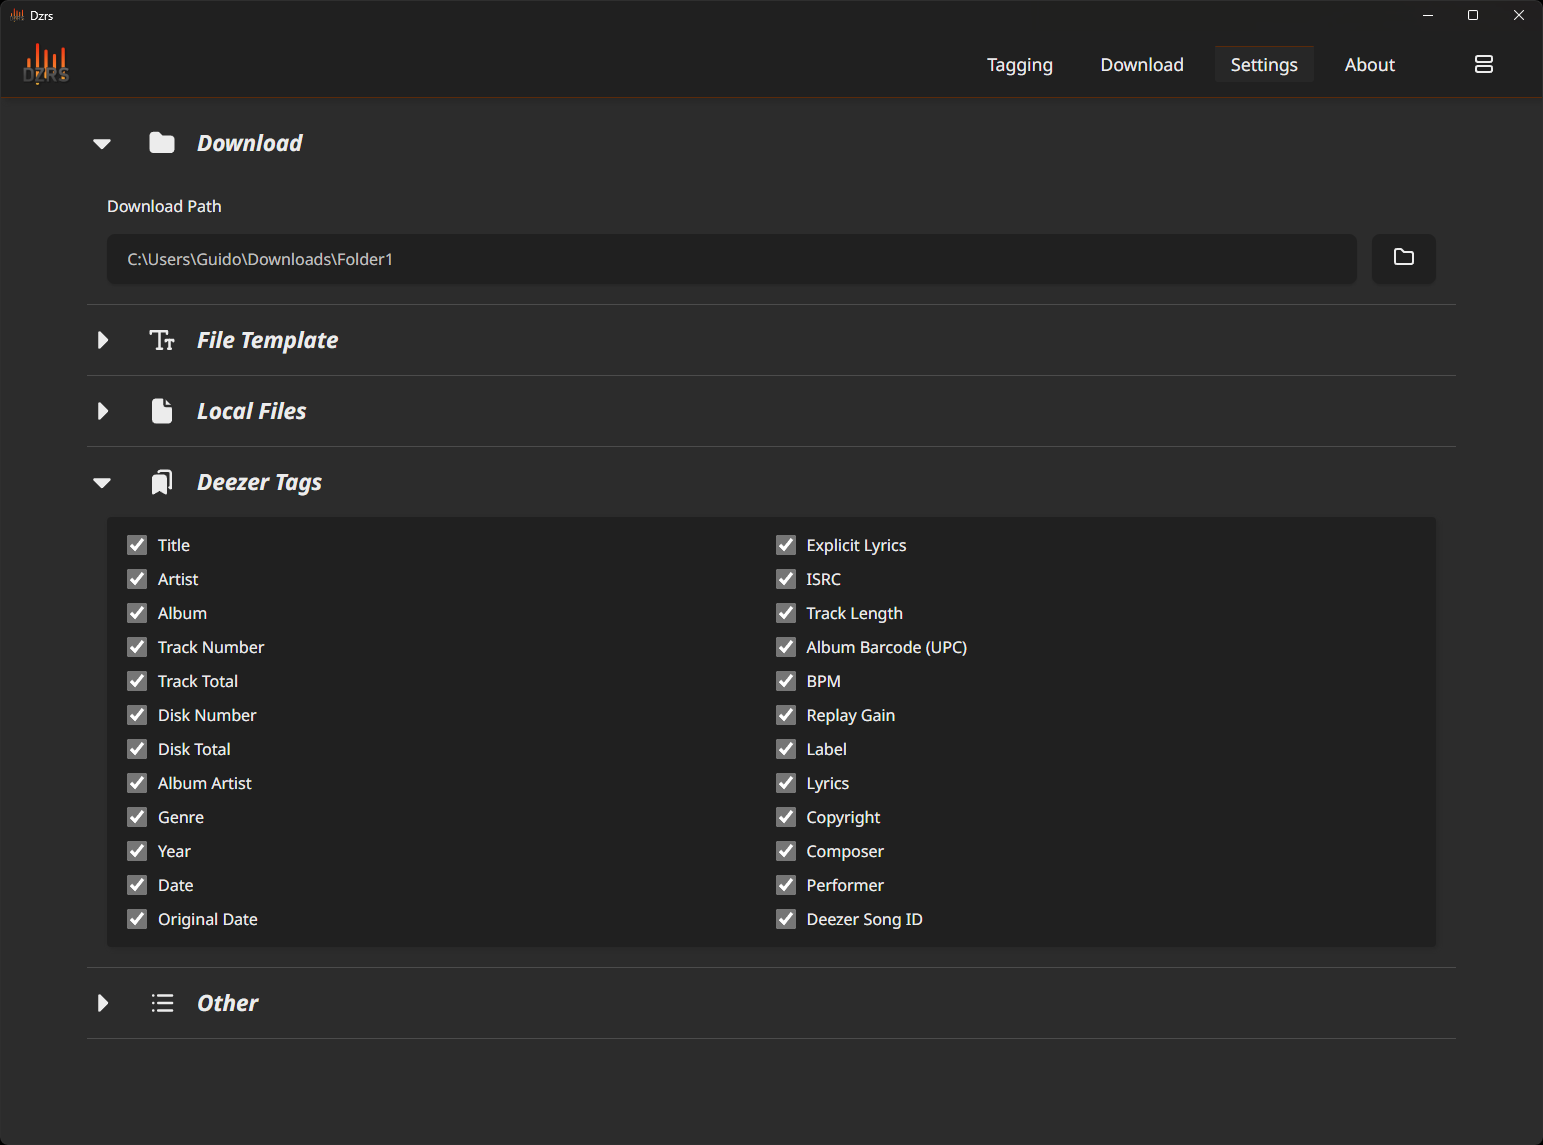
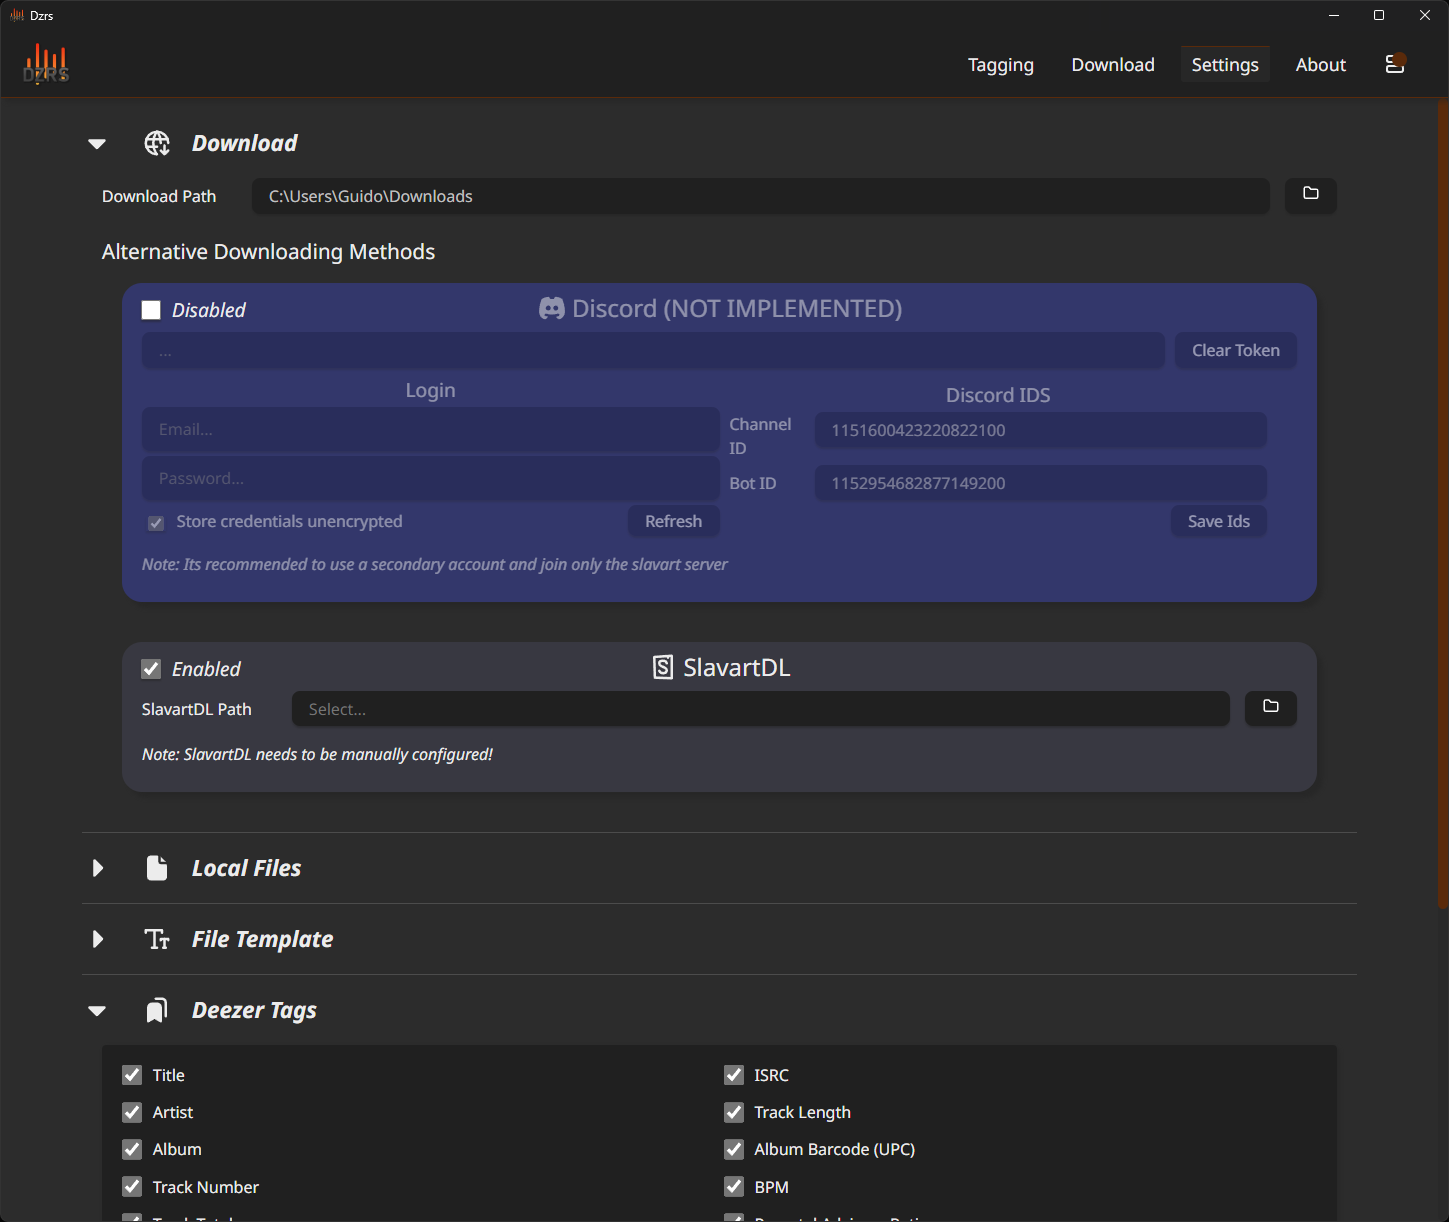
Added SlavartDL as download option

diff --git a/src/pages/Settings.vue b/src/pages/Settings.vue
@@ -147,7 +147,7 @@ function downloadSourceToggleStyle(e) {
             <div class="column" :class="{ 'disabled-el': !appConfig.discordEnabled }">
               <div class="row" style="font-size: 1.5em; margin-bottom: 4px">
                 <IconBrandDiscordFilled class="icon" size="30px" />
-                <p style="margin: auto 0px; padding-left: 5px">Discord</p>
+                <p style="margin: auto 0px; padding-left: 5px">Discord (NOT IMPLEMENTED)</p>
               </div>
               <div class="row" style="gap: 10px; margin-top: 5px">
                 <input type="text" style="flex-grow: 1" placeholder="..." :value="appConfig.discordToken" readonly />
@@ -193,7 +193,6 @@ function downloadSourceToggleStyle(e) {
                 </div>
               </div>
               <p style="font-style: italic">Note: Its recommended to use a secondary account and join only the slavart server</p>
-              <button @click="async () => await invoke('test_cmd')">TESTING BUTTON</button>
             </div>
           </div>
           <div class="slavartdl-div column">
@@ -219,12 +218,12 @@ function downloadSourceToggleStyle(e) {
               <div>
                 <div class="row" style="margin-top: 5px">
                   <p style="margin: auto 0px; flex-basis: 150px">SlavartDL Path</p>
-                  <input :value="appConfig.slavartdlPath" type="text" placeholder="Open..." style="flex-grow: 1" />
+                  <input :value="appConfig.slavartdlPath" type="text" placeholder="Select..." style="flex-grow: 1" />
                   <button style="margin-left: 15px" @click="setSlavartdlPath">
                     <IconFolder size="18px" class="icon clickable-effect" />
                   </button>
                 </div>
-                <p style="font-style: italic">Note: Configure SlavartDL manually before using it, make sure the output dir matches the download path in Dzrs</p>
+                <p style="font-style: italic">Note: SlavartDL needs to be manually configured!</p>
               </div>
             </div>
           </div>

diff --git a/src/App.vue b/src/App.vue
@@ -44,7 +44,7 @@ onMounted(async () => {
   // Finally when everything is initialized, show the main window
   await appWindow.show();
   // Notify the user if loading the config failed
-  if (!appConfig._loaded && !appConfig._created) {
+  if (!appConfig._loaded || !appConfig._created) {
     appWindow.emit("notification-add", { type: "Error", origin: "Config", msg: "Config file could not be loaded!" });
   }
   // Authenticate the discord client using the stored token

diff --git a/src-tauri/src/main.rs b/src-tauri/src/main.rs
@@ -69,6 +69,55 @@ pub fn browse<P: AsRef<Path>>(path: P) -> Result<(), String> {
     }
 }
 
+// Downloads a track from slavart api into a file
+async fn d_slavart_api(id: u64, filename: &str, directory: &str, overwrite: bool) -> Result<(), String> {
+    let url = format!("https://slavart-api.gamesdrive.net/api/download/track?id={id}");
+    let file_path = PathBuf::from(directory).join(format!("{}.flac", filename));
+    if file_path.exists() && !overwrite {
+        return Err(format!(
+            "File {:?} already exists",
+            file_path.file_name().unwrap_or_default()
+        ));
+    }
+    let response = reqwest::get(&url).await.map_err(|err| err.to_string())?;
+    if !response.status().is_success() {
+        return Err(format!("Error {} for {}", response.status().as_str(), url));
+    }
+    let (content_length, bytes) = (
+        response.content_length().unwrap_or_default(),
+        response.bytes().await.unwrap(),
+    );
+    let res_length = bytes.len();
+    if content_length != res_length as u64 || res_length <= 1024 {
+        return Err(format!("Download failed, received {} / {} bytes", res_length, content_length).into());
+    };
+    let mut file = File::create(file_path).map_err(|err| err.to_string())?;
+    let bytes: Vec<u8> = bytes.into();
+    file.write_all(&bytes).map_err(|err| err.to_string())?;
+    Ok(())
+}
+
+// Downloads a track using the discord api and an account that has access to the slavart server
+async fn d_discord() -> Result<(), String> {
+    Err("Discord download not implemented yet!".into())
+}
+
+// Downloads a track using the slavartdl cli
+async fn d_slavartdl(id: u64, cli_path: &str) -> Result<(), String> {
+    let url = format!("https://open.qobuz.com/track/{id}");
+    let cmd = Command::new(cli_path)
+        .args(["download", &url])
+        .output()
+        .map_err(|err| err.to_string())?;
+
+    if !cmd.status.success() {
+        let err = String::from_utf8(cmd.stderr).map_err(|err| err.to_string())?;
+        Err(err)
+    } else {
+        Ok(())
+    }
+}
+
 // Logs in using the discord api and retrieves the user token
 #[tauri::command]
 async fn discord_token(
@@ -448,42 +497,43 @@ async fn get_slavart_tracks(query: String) -> Result<SlavartDownloadItems, Strin
     }
 }
 
+// Downloads a track from a given qobuz id, the download is made using all enabled download methods
+// in order until one is successful, the order for now is Slavart Api (Always enabled) -> Discord (currently not implemented) -> SlavartDL
 #[tauri::command]
-async fn download_track(
-    id: u64,
-    filename: String,
-    configuration: State<'_, Mutex<DzrsConfiguration>>,
-) -> Result<(), String> {
-    let url = format!("https://slavart-api.gamesdrive.net/api/download/track?id={id}");
-    let file_path =
-        PathBuf::from(configuration.lock().unwrap().download_path.clone()).join(format!("{}.flac", filename));
-    if file_path.exists() && (configuration.lock().unwrap().overwrite_downloads == "false") {
-        return Err(format!(
-            "File {:?} already exists",
-            file_path.file_name().unwrap_or_default()
-        ));
+async fn download_track(id: u64, filename: String, config: State<'_, Mutex<DzrsConfiguration>>) -> Result<(), String> {
+    let mut tries = 1;
+    let mut errors = Vec::new();
+    let conf = config.lock().unwrap().parsed();
+    let (dir, overwrite, slavartdl_path) = (conf.download_path, conf.overwrite_downloads, conf.slavartdl_path);
+
+    // Slavart API (Always Enabled)
+    match d_slavart_api(id, &filename, &dir, overwrite).await {
+        Ok(_) => return Ok(()),
+        Err(err) => errors.push(err),
+    };
+
+    // Discord
+    if conf.discord_enabled {
+        tries += 1;
+        match d_discord().await {
+            Ok(_) => return Ok(()),
+            Err(err) => errors.push(err),
+        };
     }
-    let response = match reqwest::get(&url).await {
-        Ok(res) => res,
-        Err(err) => return Err(err.to_string()),
+
+    // SlavartDL
+    if conf.slavartdl_enabled {
+        tries += 1;
+        match d_slavartdl(id, &slavartdl_path).await {
+            Ok(_) => return Ok(()),
+            Err(err) => errors.push(err),
+        };
     };
-    if !response.status().is_success() {
-        return Err(format!("Error {} for {}", response.status().as_str(), url));
-    }
-    let content_length: u64 = response.content_length().unwrap_or_default();
-    let bytes = response.bytes().await.unwrap();
-    let res_length = bytes.len();
-    if content_length != res_length as u64 || res_length <= 1024 {
-        return Err(format!("Download failed, received {} / {} bytes", res_length, content_length).into());
-    };
-    let mut file = match File::create(file_path) {
-        Ok(file) => file,
-        Err(err) => return Err(err.to_string()),
-    };
-    let bytes: Vec<u8> = bytes.into();
-    match file.write_all(&bytes) {
-        Ok(_) => Ok(()),
-        Err(err) => Err(err.to_string()),
+
+    if errors.len() == tries {
+        Err(errors.join("\n"))
+    } else {
+        Ok(())
     }
 }
 

diff --git a/src-tauri/src/config.rs b/src-tauri/src/config.rs
@@ -3,6 +3,7 @@ use std::fmt::Display;
 use std::fs::File;
 use std::io::{BufReader, Write};
 use std::path::Path;
+use tauri::api::path::{audio_dir, download_dir};
 
 #[derive(Deserialize, Serialize, Clone, Debug)]
 #[serde(rename_all = "camelCase")]
@@ -305,14 +306,24 @@ impl DzrsConfiguration {
 
 impl Default for DzrsConfiguration {
     fn default() -> Self {
+        let download_path = download_dir()
+            .unwrap_or_default()
+            .into_os_string()
+            .into_string()
+            .unwrap_or_default();
+        let audio_path = audio_dir()
+            .unwrap_or_default()
+            .into_os_string()
+            .into_string()
+            .unwrap_or_default();
         Self {
             _path: String::new(),
             _loaded: false,
             _created: false,
-            download_path: "".into(),
+            download_path: download_path,
             file_template: "%title% - %album%".into(),
             overwrite_downloads: "true".into(),
-            directory_view_path: "".into(),
+            directory_view_path: audio_path,
             discord_enabled: "false".into(),
             discord_token: "".into(),
             discord_email: "".into(),

diff --git a/src-tauri/src/libs/discord.rs b/src-tauri/src/libs/discord.rs
@@ -98,9 +98,8 @@ impl DiscordEventHandler {
 #[serenity::async_trait]
 impl EventHandler for DiscordEventHandler {
     async fn message(&self, ctx: Context, msg: Message) {
-        println!("{:?}", msg);
         if msg.author.id == self.bot_id {
-            println!("{:?}", msg.embeds);
+            unimplemented!()
         };
     }
 }
